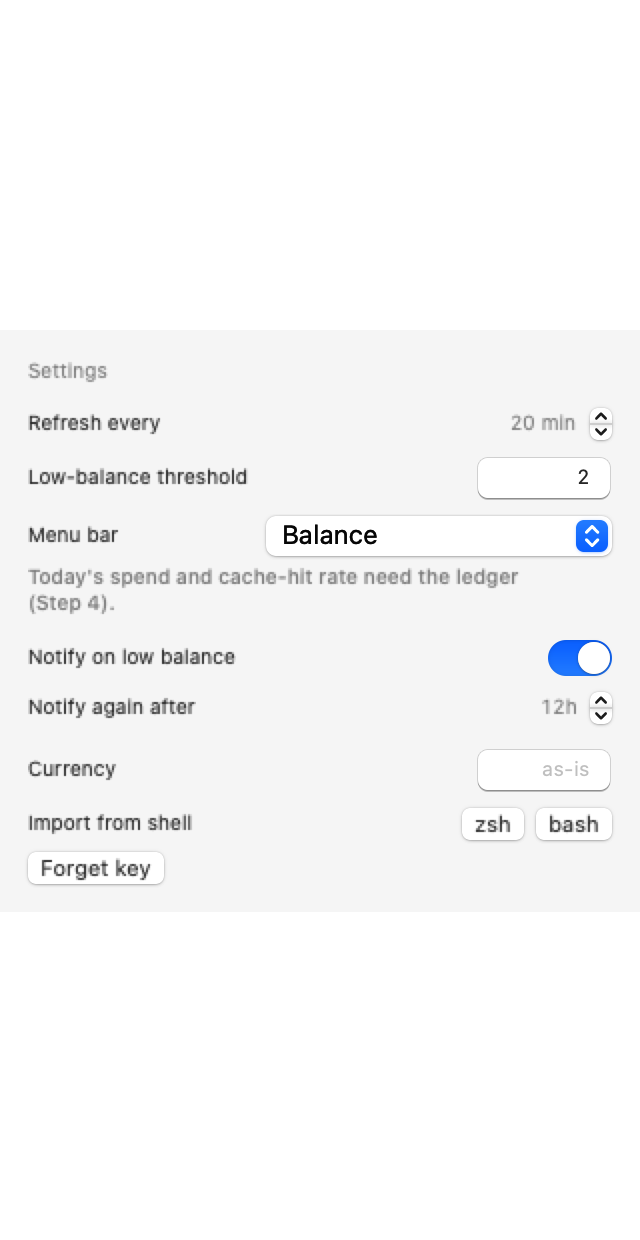
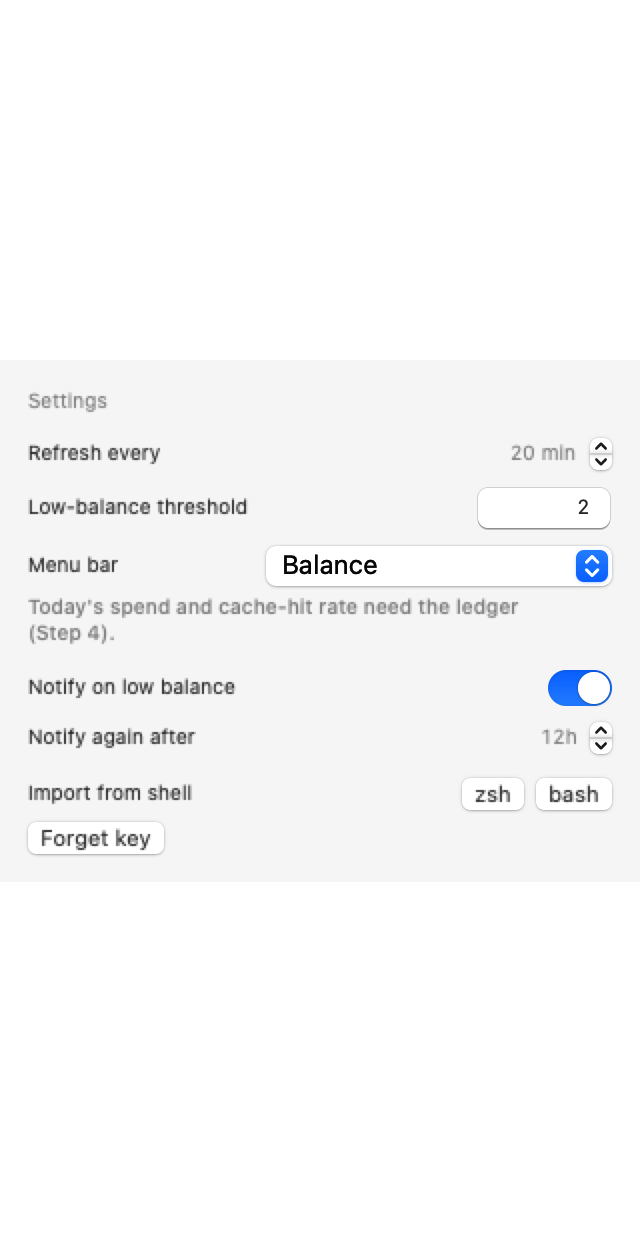
docs: catch the user documentation up with the review fixes and the removed currency setting
The Step 3 review fixes changed user-visible behaviour after the docs were last
written, so USAGE, PRIVACY, ARCHITECTURE and README now describe the code:

- The Currency setting was removed, not implemented: no mention of a currency
  field, a currency override or a stored currency preference remains, and the
  rate panel is documented as labelling prices with the price table's currency
  (PLAN.md decision 13).
- A low-balance alert is recorded as sent only after macOS accepts it; a denial
  or a failed post is retried, the menu bar carries a warning glyph while the
  balance is low, and the settings panel states once that alerts are off.
- A failed Keychain read falls back to DEEPSEEK_API_KEY with a calm
  "Keychain read problem" banner; the footer names the origin actually in use,
  and the CLI's key status prints the same distinction (0 whenever a key
  resolves, 2 only when there is none).
- Pressing Import queues a refresh behind an in-flight fetch.
- PRIVACY now lists the real stored UserDefaults keys and both stamps, the
  opencode import's union of message + session_message, and the authorizer's
  denied credential tables.

docs/assets/settings.png is regenerated with `make screenshots` because the
committed render still showed the removed Currency field.

Changed region(s): [[0.0312, 0.2758, 0.8125, 0.7355], [0.75, 0.3371, 0.9688, 0.6742], [0.7188, 0.6129, 0.8125, 0.6742]]

diff --git a/docs/USAGE.md b/docs/USAGE.md
@@ -39,8 +39,9 @@ variable once, from your own login shell, and stores it where a GUI app can read
 
 2. Click the DeepTally status item and go to **Settings → Import from shell**, then click **zsh** or
    **bash** (whichever shell you exported it in).
-3. On success the popover prints *"Imported the key from your zsh login shell."* and refreshes the balance
-   immediately.
+3. On success the popover prints *"Imported the key from your zsh login shell."* and the balance follows
+   shortly after: pressing **Import** queues a refresh, so a fetch that is already in flight is followed by
+   another one instead of the import being swallowed by it.
 
 The import runs that login shell once as `/bin/zsh -lic 'printenv DEEPSEEK_API_KEY'` (or `/bin/bash`), so it
 sees the same variable a terminal would. The key is never passed on a command line: the shell prints it and
@@ -67,7 +68,10 @@ process environment. The popover footer names the winner (never the value):
 | `API key: Keychain` | Imported. Survives reboots and terminal changes. |
 | `API key: DEEPSEEK_API_KEY` | No stored item; the process inherited the variable. A key like this works now and stops working in the next terminal — import it to make it stick. |
 | `API key: none` | No key anywhere; see the banner above. |
-| `API key: Keychain unreadable` | An item exists but could not be read (locked keychain, policy). |
+
+A Keychain read that fails adds no fourth line: the footer names the origin actually in use. The failure is
+reported as a banner instead — *"Keychain read problem: …"* — and when `DEEPSEEK_API_KEY` is set the same
+banner ends *"Using DEEPSEEK_API_KEY instead."*; when it is not, the no-key banner sits above it.
 
 ---
 
@@ -79,7 +83,7 @@ The same engine, without the UI. Build it with `make build`, run it from a check
 ```sh
 deeptally balance                      # the account balance
 deeptally rate                         # the peak/off-peak window in force, with prices
-deeptally key status                   # which store supplies the key
+deeptally key status                   # which store supplies the key, and any Keychain problem
 deeptally key import [--shell zsh|bash]  # import from the login shell into the Keychain (default: zsh)
 deeptally key delete                   # remove the stored key
 deeptally usage [--json]               # usage summary — a stub until Step 4
@@ -87,12 +91,12 @@ deeptally --version | --help
 ```
 
 `deeptally balance` prints the balance exactly as the API reports it — the currency is shown as-is, never
-converted (amounts below are illustrative):
+converted; the numbers are printed as parsed, so a trailing zero is dropped (illustrative):
 
 ```text
-USD 41.20  (available)
+USD 41.2  (available)
   granted:   0
-  topped up: 41.20
+  topped up: 41.2
 ```
 
 If the key came from the environment rather than the Keychain, the command adds a hint on **stderr**, so a
@@ -111,17 +115,24 @@ Off-peak  (50% off, CN public holiday)
 
 (That output is real, from 2026-09-24 — a Chinese public holiday, hence off-peak on a weekday. The window,
 the countdown and the prices move; only the shape is fixed.) Prices and model IDs come from the versioned
-`Resources/PriceTable.json`, which the app and the CLI share, and which you can override per user — see
-[`ARCHITECTURE.md`](ARCHITECTURE.md).
+`Sources/DeepTallyCore/Resources/PriceTable.json`, which the app and the CLI share, and which you can
+override per user — see [`ARCHITECTURE.md`](ARCHITECTURE.md).
 
-`deeptally key import` is the only command that runs a shell. `deeptally key status` reports the source and
-the key's shape (`source: keychain`, `shape: <n> chars, starts with sk-`) and never the key itself — the
-length is the only number it will tell you, and only the constant `sk-` prefix is ever echoed.
-`deeptally usage` is still the Step 3 stub: it prints `Usage summary lands in Step 4 (see docs/PLAN.md).`,
-or `{"status":"not_implemented","step":4}` with `--json`.
+`deeptally key import` is the only command that runs a shell. `deeptally key status` reports the origin
+(`source: keychain`, `source: environment` or `source: none`), a `keychain: <problem>` line when the
+Keychain read failed, and the key's shape (`shape: <n> chars, starts with sk-`) — never the key itself: the
+length is the only number it will tell you, and only the constant `sk-` prefix is ever echoed. It exits `0`
+whenever a key resolved, including a Keychain read that failed while `DEEPSEEK_API_KEY` supplied one, and
+`2` only when there is no key at all. `deeptally usage` is still the Step 3 stub: it prints
+`Usage summary lands in Step 4 (see docs/PLAN.md).`, or `{"status":"not_implemented","step":4}` with
+`--json`.
 
-**Exit codes** are contractual for scripts: `0` success · `2` no usable key · `1` a usage error or any other
-failure. Errors go to stderr.
+**Exit codes** are contractual for scripts, and `--help` prints the same table: `0` success · `2` no usable
+key · `1` a usage error or any other failure. Two commands are worth spelling out: `key status` exits `0`
+whenever it can name a key — a Keychain read that failed while `DEEPSEEK_API_KEY` supplied one still
+answers — and `2` only when there is no key at all; `balance` exits `2` both when there is no key and when
+the `/user/balance` request itself failed (authentication, network, rate limit — the stderr line says
+which). Errors go to stderr.
 
 ---
 
@@ -135,6 +146,10 @@ laid out top to bottom as follows.
 The status item shows the gauge glyph plus one metric. Today that is **Balance** — `$11.99`, or `—` before the
 first reading. The other two metrics exist in the picker but have no number behind them yet (Step 4).
 
+While the balance is below your threshold the gauge gives way to a warning triangle, and the button's
+tooltip names the amount — *"DeepSeek balance $1.42 is low."* That glyph is the fallback for a low balance
+whenever macOS will not deliver the notification.
+
 ### 1. Notices
 
 A banner appears only when there is something to say, most actionable first. They are derived from live
@@ -144,8 +159,8 @@ state, so a fixed problem removes its own banner:
 |---|---|
 | *"Running from a temporary read-only copy. Drag DeepTally into /Applications and relaunch — the login item cannot be registered from here."* | macOS launched the app through App Translocation ([`UNSIGNED.md`](UNSIGNED.md), [`INSTALL.md`](INSTALL.md)). |
 | *"No API key yet. Import it from your login shell in Settings below."* | No Keychain item and no environment key. |
-| *"Could not read the API key from the Keychain (…)."* | An item exists but the read failed; the parenthesis carries a Keychain status, never a secret. |
-| *"Pricing data problem: … No prices are shown until it is fixed."* | `PriceTable.json` is missing or invalid — the rate panel is suppressed rather than guessing. |
+| *"Keychain read problem: …"* | The stored item could not be read — a locked keychain or a denied item ACL. When `DEEPSEEK_API_KEY` is set the banner ends *"Using DEEPSEEK_API_KEY instead."*; when it is not, the no-key banner is above it. The status it names is a Keychain code, never a secret. |
+| *"Pricing data problem: … No prices are shown until it is fixed."* | The bundled `PriceTable.json` is missing or unreadable — the rate panel is suppressed rather than guessing. |
 | *"Holiday data problem: … Peak hours on Chinese public holidays may be over-reported."* | The holiday calendar could not be read; prices still work. |
 | A refresh failure, e.g. an HTTP or TLS error | The last `/user/balance` request failed. |
 | A key-import failure or a login-item failure | The action you just tried did not complete; the text names the fix. |
@@ -174,12 +189,15 @@ state, so a fixed problem removes its own banner:
 - *"Ends 03:00 · 75h 46m left"* — the end of the window in **your local time**, plus a countdown floored to
   whole minutes. Hovering the line shows the same instant with the local weekday (*"Mon 03:00"*).
 - *"CN public holiday"* when off-peak is in force because of one.
-- A **USD per 1M tokens** table — Model / Cache-hit / Cache-miss / Output — with the effective price of each
-  model for the window that is in force. Two decimals, and up to two more for three-decimal cache-hit rates.
+- A **`<currency>` per 1M tokens** table — the label is the price table's own currency (`USD per 1M tokens`
+  for the shipped table), never converted — with the columns Model / Cache-hit / Cache-miss / Output and the
+  effective price of each model for the window that is in force. Two decimals, and up to two more for
+  three-decimal cache-hit rates.
 
 The classification is computed in UTC (peak is 01:00–04:00 and 06:00–10:00 UTC, Monday–Friday, excluding
-Chinese public holidays); only the presentation is local. If the price table cannot be read, this section
-says *"Rate information is not available yet."* and a banner above names the problem.
+Chinese public holidays); only the presentation is local. If the bundled price table cannot be read, this
+section says *"Rate information is not available yet."* and a banner above names the problem; an invalid user
+override falls back to the bundled table instead, so prices stay on screen.
 
 ### 4. Startup
 
@@ -192,8 +210,8 @@ General → Login Items."*, *"macOS has no login item for DeepTally; registratio
 
 ### 5. Settings
 
-The settings block — refresh cadence, threshold, menu bar metric, notifications, currency and the key row.
-It sits below the popover's fold (scroll the popover to reach it), and it is all in the reference below.
+The settings block — refresh cadence, threshold, menu bar metric, notifications and the key row. It sits
+below the popover's fold (scroll the popover to reach it), and it is all in the reference below.
 
 ### 6. Footer
 
@@ -209,9 +227,8 @@ One compact line: the version from the bundle (`0.1.0` for a local `make bundle`
 | **Refresh every** | stepper | 20 min | 5–240 minutes between balance refreshes. The wait doubles after each consecutive failure, capped at 1 hour, and up to 60 s of jitter is added so installs do not poll in lockstep. A refresh also runs on wake from sleep, when the network comes back, and whenever you press Refresh. |
 | **Low-balance threshold** | number field | 2 | Compared **strictly** with the account amount: `1.99 < 2` is low, `2.00` is not. Compared as reported — never converted. Valid range 0–1000. |
 | **Menu bar** | picker | Balance | Which metric the title shows. Only **Balance** has a value today; **Today's spend (Step 4)** and **Cache-hit rate (Step 4)** are listed but disabled, under the note *"Today's spend and cache-hit rate need the ledger (Step 4)."* |
-| **Notify on low balance** | switch | on | A macOS notification when the balance falls below the threshold: *"DeepSeek balance is low"* / *"Balance $1.42 is below your $2.00 threshold."* macOS asks for permission once, at launch. |
-| **Notify again after** | stepper | 12h | 15 min – 7 days (10 080 min) in 30-minute steps, shown as `12h`, `30 min`, `1h 30m`. A balance that stays low re-alerts at most once per cooldown, and the last alert time survives a relaunch. Only a low balance triggers an alert; an old reading neither triggers nor silences one. |
-| **Currency** | text field | empty (`as-is`) | Intended as a display-currency code; empty means "show the account currency exactly as the API reports it", which is what the app does today. A non-empty code is stored and validated but is not yet applied to the amount — nothing converts currencies here, by decision ([`PLAN.md`](PLAN.md) §9). TODO: no step in [`PLAN.md`](PLAN.md) schedules wiring it up. |
+| **Notify on low balance** | switch | on | A macOS notification when the balance falls below the threshold: *"DeepSeek balance is low"* / *"Balance $1.42 is below your $2.00 threshold."* macOS asks for permission once, at launch. An alert counts as sent only after macOS accepts it, so a denial or a failed post is retried instead of consuming the cooldown — and the **menu-bar warning glyph** (above) carries a low balance whenever macOS will not deliver the alert. While the switch is on and macOS reports the permission denied, the panel adds one line: *"macOS notifications are off for DeepTally, so low-balance alerts are not delivered. While the balance is low the menu bar shows a warning glyph; re-allow DeepTally in System Settings → Notifications to get the alert."* |
+| **Notify again after** | stepper | 12h | 15 min – 7 days (10 080 min) in 30-minute steps, shown as `12h`, `30 min`, `1h 30m`. A balance that stays low re-alerts at most once per cooldown, and the time of the last **delivered** alert survives a relaunch. Only a low balance triggers an alert; an old reading neither triggers nor silences one. The stepper is disabled while **Notify on low balance** is off. |
 | **Import from shell** | zsh / bash buttons | — | The one-time Keychain import (above). |
 | **Forget key** | button | — | Deletes the Keychain item. If `DEEPSEEK_API_KEY` is still exported, the CLI says so on stderr so you are not told the key is gone while it still works. |
 
@@ -242,11 +259,12 @@ There is no one-step uninstaller yet: quitting, turning off **Launch at login**,
 |---|---|
 | *"Running from a temporary read-only copy…"* | macOS put the app through App Translocation because it was launched from outside `/Applications` (measured twice, [`SPIKES.md`](SPIKES.md) S2). Quit it, drag `DeepTally.app` into `/Applications`, relaunch. **Launch at login** is disabled in this state, because a login item pointing into a temporary directory is worse than none. |
 | *"No API key yet."*, or `deeptally balance` exits `2` with *"No API key: the Keychain has none and DEEPSEEK_API_KEY is not set."* | Import the key (above). For the CLI: `deeptally key import --shell zsh`. |
+| *"Keychain read problem: …"* | The stored item could not be read — a locked keychain or a denied item ACL, which is not the same as no key. If `DEEPSEEK_API_KEY` is exported, the banner says *"Using DEEPSEEK_API_KEY instead."*, the footer reads `API key: DEEPSEEK_API_KEY`, and the app keeps working; if it is not, the no-key banner is above it and you need to import again. `deeptally key status` prints the same failure as a `keychain:` line. |
 | *"No DEEPSEEK_API_KEY in your zsh login shell. Export it in ~/.zprofile or ~/.zshrc and try again."* | The login shell never printed the variable. Check the rc file for the shell you clicked, export it there, then import again. `The zsh login shell did not finish in time.` means the shell took longer than 8 s (something in your rc file is interactive); `exited with status 1` means the shell itself failed. |
 | The key imports but nothing refreshes | A network failure is reported as its own banner and backed off — not retried in a loop. The last good reading, with its honest age, stays on screen. |
 | Balance looks stale | A reading over 60 minutes old gets the line *"3h 12m old"* and the status *"Balance is not up to date."* DeepTally keeps showing it instead of an empty panel. Press **Refresh**, or wait: after a failure the next attempt is at most 1 hour + 60 s away, and a wake from sleep or a returning network triggers one immediately. DeepSeek's balance is eventually consistent — the "as of" time is when it was fetched, not a claim about the server. |
-| No low-balance notifications | macOS asks for permission once, at launch, when the switch is on. If it was denied, the switch keeps its state and the app keeps working: the popover's orange amount and *"Low balance — top up to keep requests running."* are the fallback. Re-allow DeepTally in **System Settings → Notifications**. |
-| *"Pricing data problem: …"* / *"Holiday data problem: …"* | The price table (`Resources/PriceTable.json`, or your override at `~/.config/deeptally/PriceTable.json`) or the holiday list (`Resources/ChinaHolidays.json`) could not be read. Prices are data, so the app suppresses the rate panel instead of inventing numbers. The banner text names the offending file. |
+| No low-balance notifications | macOS asks for permission once, at launch, when the switch is on. If it was denied, the switch keeps its state and the app keeps working: the fallback is the **menu-bar warning glyph** — while the balance is low the gauge is replaced by a warning triangle whose tooltip names the amount — and Settings states once that alerts are not delivered. Re-allow DeepTally in **System Settings → Notifications** to get the notification too. An alert macOS refused is retried, because only an accepted one counts as sent. |
+| *"Pricing data problem: …"* / *"Holiday data problem: …"* | The bundled price table (`Sources/DeepTallyCore/Resources/PriceTable.json`) or the holiday list (`Sources/DeepTallyCore/Resources/ChinaHolidays.json`) could not be read. Prices are data, so the app suppresses the rate panel instead of inventing numbers. Your override at `~/.config/deeptally/PriceTable.json` is different: it wins when it is valid, and an invalid override is ignored in favour of the bundled table rather than suppressing prices. |
 | The rate looks wrong on a holiday | The shipped calendar holds the official 2026 Chinese State Council dates; other years are not included. Extra dates can be merged in through the `holidays` array of your `~/.config/deeptally/PriceTable.json`. |
 | What does *"estimated"* mean? | Nothing in the app is labelled *estimated* today: the only number shown is your account balance, which comes straight from `GET /user/balance`. Later, spend computed locally by `CostEngine` from token counters and the price table will be an estimate (DeepSeek has no historical usage API — [`PLAN.md`](PLAN.md) §7), and per-request cost claims imported from a gateway provider (kilo/openrouter) will be labelled **estimated** because DeepTally cannot check them against DeepSeek's billing. TODO (Steps 4–5): the exact wording is frozen when the ledger and the analytics views land. |
 

diff --git a/docs/ARCHITECTURE.md b/docs/ARCHITECTURE.md
@@ -65,24 +65,33 @@ both the model and the views need, so neither has to know how a key source, a pr
 calendar is put together — and there is exactly one place where those choices are made:
 
 - `KeychainStore` + `APIKeySource` (Keychain first, then `DEEPSEEK_API_KEY`) and the `KeychainStore` itself,
-  so the app can report *where* a key came from without reading it;
+  so the app can report *where* a key came from without reading it — including a Keychain read that failed
+  and fell back to the environment, which the resolver carries as a sentence for the *"Keychain read
+  problem: …"* banner;
 - `SettingsStore` and `LaunchStateStore` (the last reading and the last alert time);
-- the price table, the merged holiday calendar, `PeakOffPeakEngine` and `RateNowPresenter`;
+- the price table (a valid `~/.config/deeptally/PriceTable.json` override wins over the bundled
+  `PriceTable.json`), the merged holiday calendar, `PeakOffPeakEngine` and `RateNowPresenter`;
 - `makeClient`, which binds one `DeepSeekClient` to the key a refresh resolved, so a re-imported key takes
 effect on the next request instead of being captured at launch.
 
-Composing is **fail-soft**: an unreadable price table or holiday file is recorded as a sentence for the
-popover's banner slot and that part falls back (`PriceTable.unavailable`, an empty calendar) rather than
-stopping the app. Monitor and notification policy are built *for* a threshold and a cooldown, so a settings
-change gets a fresh object instead of an object holding the old value.
+Composing is **fail-soft**: an unreadable bundled price table or holiday file is recorded as a sentence for
+the popover's banner slot and that part falls back (`PriceTable.unavailable`, an empty calendar) rather than
+stopping the app. A present-but-invalid user override is separate: `PriceTableLoader` ignores it in favour of
+the bundled table and returns the reason from `loadWithDiagnostics()` to a caller that has somewhere to show
+it. Monitor and notification policy are built *for* a threshold and a cooldown, so a settings change gets a
+fresh object instead of an object holding the old value.
 
-`AppModel` is the **state owner**. It is `@MainActor @Observable` and owns the key origin, the balance state,
-the rate-now display, the login-item status and the banner list derived from all of them. Three rules it
-keeps: a refresh never runs twice at once; the next refresh always comes from `PollingPlan` (interval, then
-backoff, then additive jitter) rather than a hand-rolled timer chain; nothing blocking runs on the main
-actor (the one blocking call, the key import's shell, runs in a detached task). It re-renders the countdown
-on a 30-second ticker, refreshes on `NSWorkspace.didWakeNotification` and on the unsatisfied → satisfied
-edge of `NWPathMonitor`, and posts low-balance alerts through `NotificationPolicy`.
+`AppModel` is the **state owner**. It is `@MainActor @Observable` and owns the key origin *and the Keychain
+problem that resolution reported*, the balance state, the rate-now display, the login-item status and the
+banner list derived from all of them. Three rules it keeps: a refresh never runs twice at once — a request
+that arrives while one is in flight is *queued*, not dropped, which is what makes "press Import and a refresh
+follows shortly" true; the next refresh always comes from `PollingPlan` (interval, then backoff, then additive
+jitter) rather than a hand-rolled timer chain; nothing blocking runs on the main actor (the one blocking call,
+the key import's shell, runs in a detached task). It re-renders the countdown on a 30-second ticker,
+refreshes on `NSWorkspace.didWakeNotification` and on the unsatisfied → satisfied edge of `NWPathMonitor`, and
+posts low-balance alerts through `NotificationPolicy` — stamping the cooldown only once macOS accepted the
+post, so a denial or a failed post is retried rather than silencing the alert. While macOS will not deliver,
+the menu bar carries a warning glyph instead.
 
 `StatusItemController` owns the `NSStatusItem` and the `NSPopover` and mirrors `AppModel.menuBarLabel` through
 Observation, so the title follows a refresh the model started on its own timer.
@@ -92,8 +101,11 @@ Observation, so the title follows a refresh the model started on its own timer.
 fallback**: an integration spike measured `SMAppService.mainApp.register()` succeeding for an ad-hoc-signed
 bundle with no approval prompt ([`SPIKES.md`](SPIKES.md) S3), so a fallback would be dead code — it is only
 needed if a future macOS changes that. `UserNotificationScheduler` is the only type that touches
-`UNUserNotificationCenter`; a denial is a normal outcome, not an error path (the popover's own low-balance
-notice is the fallback), and a notification carries the amount and threshold, never a key.
+`UNUserNotificationCenter`; a denial is a normal outcome, not an error path — the **menu bar carries a
+warning glyph while the balance is low**, and the settings panel states once that alerts are not delivered.
+`postLowBalance` reports back whether the notification centre accepted the post, and `authorization()` reads
+the live system status, so the caller can tell "not allowed" from "delivery failed"; a notification carries
+the amount and threshold, never a key.
 
 The `Views/` directory and `PopoverView` are **presentation only**: they read state and call closures, run no
 shell, open no Keychain item and know no key. Strings arrive ready to place from the `DeepTallyCore`
@@ -161,15 +173,18 @@ shows "what am I paying right now" instead of a static price list.
 
 - Peak windows are **01:00–04:00 and 06:00–10:00 UTC, Monday–Friday, excluding Chinese public holidays**.
 - Everything else is off-peak, at exactly half the peak price.
-- Classification is always computed **in UTC**, against `Resources/ChinaHolidays.json` (holidays are data,
-  not code).
+- Classification is always computed **in UTC**, against `Sources/DeepTallyCore/Resources/ChinaHolidays.json`
+  (holidays are data, not code).
 - The result is **displayed in the user's local timezone**, with the next transition and a countdown. A
   window label is never derived from local-time arithmetic — only its presentation is local
   ([`../AGENTS.md`](../AGENTS.md) §9.9).
 - For each model the popover shows the effective cache-hit, cache-miss and output price per 1M tokens for
   the current window.
-- Prices and model IDs are never hardcoded in Swift: they load from `Resources/PriceTable.json`, which is
-  versioned data and user-overridable ([`../AGENTS.md`](../AGENTS.md) §9.11).
+- Prices and model IDs are never hardcoded in Swift: they load from
+  `Sources/DeepTallyCore/Resources/PriceTable.json`, which is versioned data and user-overridable
+  ([`../AGENTS.md`](../AGENTS.md) §9.11).
+- The panel labels its prices with the **price table's own currency** (`USD per 1M tokens` for the shipped
+  table). Amounts are never converted ([`PLAN.md`](PLAN.md) §1, decision 13).
 
 ## Source map
 

diff --git a/docs/PRIVACY.md b/docs/PRIVACY.md
@@ -10,7 +10,7 @@ first of them today:
 
 | Host | Purpose | What is sent |
 |---|---|---|
-| `api.deepseek.com` | Account balance (`GET /user/balance`) and model list (`GET /models`) | Your API key as the `Authorization: Bearer …` header, and the request path. Nothing else. |
+| `api.deepseek.com` | Account balance (`GET /user/balance`) — the only request any build makes today. The client also implements the model list (`GET /models`), but nothing calls it yet. | Your API key as the `Authorization: Bearer …` header, and the request path. Nothing else. |
 | `api.github.com` | **Reserved, not used yet** — an update check is the only thing allowed to contact it ([`../AGENTS.md`](../AGENTS.md) §1) | Nothing today: no current build makes this request. TODO: no step in [`PLAN.md`](PLAN.md) schedules the update check, so no release metadata is fetched. |
 
 As with any HTTPS request, the host sees your IP address and the time of the request. DeepTally adds no
@@ -32,14 +32,21 @@ through it, and discards request and response bodies immediately.
 - The `deeptally` CLI resolves the key the same way the app does — **Keychain first, then
   `DEEPSEEK_API_KEY`** — so importing it once makes both halves use the same key. `DEEPSEEK_API_KEY` remains
   your shell's environment; DeepTally never writes it anywhere.
+- A Keychain read that fails (locked keychain, denied item ACL) does not block the environment key: the app
+  reports the problem as a *"Keychain read problem: …"* banner and, when `DEEPSEEK_API_KEY` is set, keeps
+  working with it — and `deeptally key status` prints the same failure as a `keychain:` line. No diagnostic
+  can carry the key itself.
 
 ## The opencode database
 
-If you use opencode, DeepTally can import usage from `~/.local/share/opencode/opencode.db`. That import is:
+If you use opencode, DeepTally will import usage from `~/.local/share/opencode/opencode.db` (the importer
+exists; Step 4 wires it into the ledger). That import is:
 
 - **read-only**;
-- limited to the `message` table (plus schema feature detection);
-- never touching the `credential`/`cred_*` tables, which store credentials in plaintext.
+- limited to the `message` **and** `session_message` tables — opencode ships two live schema generations
+  holding largely different rows, so both are read and deduped — plus column feature detection;
+- never touching the `credential*`, `cred_*`, `account*` or `auth*` tables, which store credentials in
+  plaintext (a SQLite authorizer denies those reads at the connection level).
 
 Only token counters, timestamps, model/provider names and cost fields are read. Message content is not
 extracted, stored or transmitted.
@@ -49,12 +56,12 @@ extracted, stored or transmitted.
 | What | Where | Notes |
 |---|---|---|
 | Usage ledger | `~/Library/Application Support/DeepTally/` (SQLite) | Counters, timestamps, model names and estimated costs. No prompt or completion text. Step 4. |
-| Settings | `~/Library/Preferences/io.github.genoma.deeptally.plist` (`UserDefaults`), key `io.github.genoma.deeptally.settings` | One JSON blob: low-balance threshold, menu bar metric, refresh cadence, notifications on/off, notification cooldown, currency code. |
+| Settings | `~/Library/Preferences/io.github.genoma.deeptally.plist` (`UserDefaults`), key `io.github.genoma.deeptally.settings` | One JSON blob: refresh cadence, low-balance threshold, menu bar metric, notifications on/off and the notification cooldown. It also carries `showSecondaryMetric`, an unused flag that no build reads. No currency is stored: the account currency is shown exactly as the API reports it. |
 | Last balance reading | Same plist, key `io.github.genoma.deeptally.last-reading` | The last successful `/user/balance` answer — amounts, currency, availability flag — plus the instant it was fetched. It exists so a relaunch can show the amount immediately with a truthful "as of" age instead of an empty panel. |
-| Last low-balance alert | Same plist, key `io.github.genoma.deeptally.last-notified` | A timestamp, so the notification cooldown survives a relaunch. |
+| Last low-balance alert | Same plist, key `io.github.genoma.deeptally.last-notified` | A timestamp, written only after macOS accepted the alert, so the cooldown survives a relaunch — while a denied or failed post is retried instead of being recorded as delivered. |
 | API key | One Keychain item: service `io.github.genoma.deeptally`, account `api-key` | Generic password, accessible while the login keychain is unlocked. Never in a file, a preference or a log. |
 | Login item | Registered through `SMAppService` (system-managed) | Removed again by the uninstaller (Step 6), or by turning **Launch at login** off. |
-| Launch diagnostics | `~/Library/Application Support/DeepTally/launch.log` and `last-launch.json` | Step 2 spike output only: bundle path, App Translocation, quarantine flag, and whether an API key was visible in the environment — never a key. **The shipped app never writes this file**: it exists only while the marker `~/Library/Application Support/DeepTally/spike-enabled` does ([`SPIKES.md`](SPIKES.md)). |
+| Launch diagnostics | `~/Library/Application Support/DeepTally/launch.log` (capped at 200 lines) and `last-launch.json` | Step 2 spike output only: bundle path, App Translocation, quarantine flag, and whether `DEEPSEEK_API_KEY` was visible in the environment — a boolean, never the key's value. **The shipped app never writes these files**: they exist only while the marker `~/Library/Application Support/DeepTally/spike-enabled` does ([`SPIKES.md`](SPIKES.md)). |
 
 Never stored, anywhere: prompt or completion content, request or response bodies, message text from the
 opencode database, or your DeepSeek password — DeepTally only ever uses an API key. The balance reading it
@@ -67,7 +74,7 @@ Two things worth stating plainly:
   see usage from other machines, from the web dashboard, or from periods when DeepTally was not running
   ([`PLAN.md`](PLAN.md) §7). That is a capability limit, not a data-collection one.
 - Peak/off-peak classification needs a holiday calendar; it ships as a data file
-  (`Resources/ChinaHolidays.json`) instead of being fetched from a third-party API.
+  (`Sources/DeepTallyCore/Resources/ChinaHolidays.json`) instead of being fetched from a third-party API.
 
 ## Export and delete
 

diff --git a/README.md b/README.md
@@ -2,18 +2,22 @@
 
 **DeepSeek usage meter for the macOS menu bar.** Balance, spend, tokens and cache-hit rate — at a glance, locally.
 
-> **Status: pre-alpha.** The step-by-step build plan is in [`docs/PLAN.md`](docs/PLAN.md).
+> **Status: pre-alpha.** Step 3 is done — the menu bar app shows the live balance, the current rate window and
+> the settings. Token usage, spend and cache-hit rate need the ledger, which is Step 4 in
+> [`docs/PLAN.md`](docs/PLAN.md).
 
 ## What it does
 
 - Shows your DeepSeek account balance in the menu bar, with an explicit "as of" timestamp
-- Tallies token usage, spend and **cache-hit rate** from the requests made on your Mac
-- Estimates cost per model, including DeepSeek's peak / off-peak pricing windows
 - Tells you whether you are in a **peak or off-peak window right now** — in your local time — with a countdown
-  to the next switch and the effective price for each model in that window
-- Ships a small CLI (`deeptally balance`) for scripts and terminals
-- Alerts when the balance drops below a threshold you set
+  to the next switch and the effective price for each model in that window, in the price table's own currency
+- Alerts when the balance drops below a threshold you set — and while macOS will not deliver the alert, a
+  warning glyph stands in for the menu bar gauge
 - Starts at login, lives in the menu bar, no Dock icon
+- Ships a small CLI (`deeptally balance`, `deeptally rate`, `deeptally key …`) for scripts and terminals
+
+The ledger is still landing (Steps 4–5): token usage, spend and **cache-hit rate** tallied from the requests
+made on your Mac, with per-model cost estimates that include the peak / off-peak pricing windows.
 
 How to connect your API key, what each popover section shows and every setting are documented in
 [`docs/USAGE.md`](docs/USAGE.md).
@@ -22,7 +26,7 @@ How to connect your API key, what each popover section shows and every setting a
 
 - No telemetry, no account, no cloud sync. Everything stays on your Mac.
 - Never stores prompt or completion **content** — counters, timestamps and model names only
-- Does not scrape DeepSeek's private dashboard endpoints (balance + per-response usage only)
+- Does not scrape DeepSeek's private dashboard endpoints (account balance only, today)
 - Not affiliated with, endorsed by, or connected to DeepSeek
 
 ## Install
@@ -35,7 +39,7 @@ install script that avoids the Gatekeeper dialog entirely. See [`docs/PLAN.md`](
 ```sh
 deeptally balance                        # account balance
 deeptally rate                           # peak/off-peak window now, with prices
-deeptally key status                     # which store supplies the key
+deeptally key status                     # which store supplies the key, and any Keychain problem
 deeptally key import [--shell zsh|bash]  # import the key from the login shell into the Keychain
 deeptally key delete                     # forget the stored key
 deeptally usage [--json]                 # usage summary (stub until Step 4)
@@ -43,8 +47,10 @@ deeptally --version | --help
 ```
 
 Like the app, the CLI reads the API key from the **Keychain first, then `DEEPSEEK_API_KEY`**, so a terminal
-and the menu bar use the same key. Exit codes are `0` ok, `2` no usable key, `1` usage error or any other
-failure. Full command reference: [`docs/USAGE.md`](docs/USAGE.md).
+and the menu bar use the same key. Exit codes are contractual: `0` ok, `2` the key path failed (no key, or the
+balance request itself), `1` a usage error or any other failure. `deeptally key status` exits `0` whenever it
+can name a key — including a Keychain read that failed while `DEEPSEEK_API_KEY` supplied one — and `2` only
+when there is no key at all. Full command reference: [`docs/USAGE.md`](docs/USAGE.md).
 
 ## Screenshots
 
@@ -75,15 +81,15 @@ bar of its own. To stop it:
 - **Quit** in the popover footer, or ⌘Q while the popover is open, or
 - `make kill` (equivalent to `pkill -f 'DeepTally.app/Contents/MacOS/DeepTally'`).
 
-If the app is running but its status item is hidden, `make kill` is the reliable way out until a menu-bar
-fallback lands.
+If the app is running but its status item is hidden, `make kill` is the reliable way out.
 
 ## Privacy
 
-DeepTally talks to exactly one host today: `api.deepseek.com` (balance and models; a loopback-only proxy
-that forwards your own requests is planned for v1.1, opt-in). `api.github.com` is reserved for a future
+DeepTally talks to exactly one host today: `api.deepseek.com`, for your account balance; a loopback-only proxy
+that forwards your own requests is planned for v1.1, opt-in. `api.github.com` is reserved for a future
 update check and is not contacted by any current build. No analytics. No crash reporting. No third-party
-servers. The API key lives in the macOS Keychain, never in a file or a preference.
+servers. The API key lives in the macOS Keychain, never in a file or a preference; if the Keychain read fails,
+the app falls back to `DEEPSEEK_API_KEY` and says so in a banner.
 
 ## License
 
